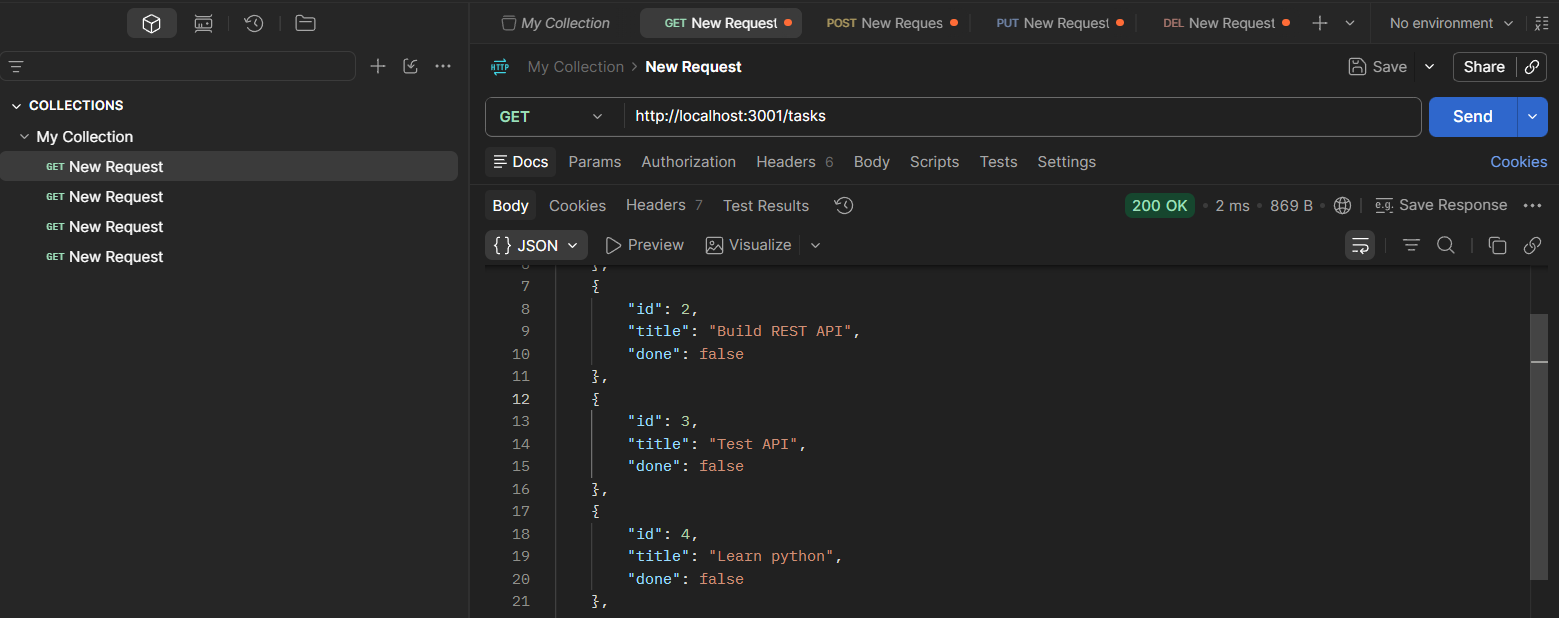
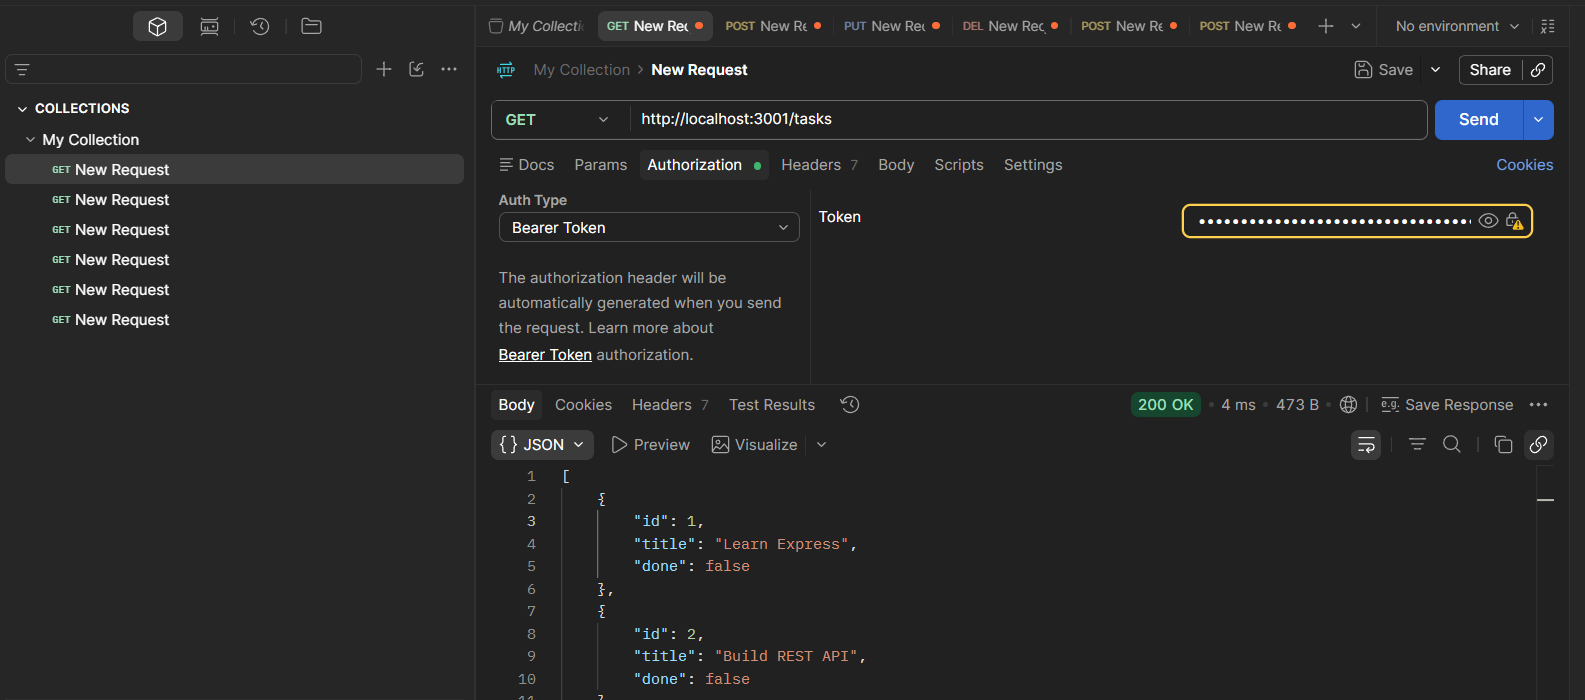
Authenticate JWT and more

diff --git a/README.md b/README.md
@@ -1,5 +1,7 @@
 # Task Manager REST API
 
+![alt text](image.png)
+
 A simple REST API built with **Node.js** and **Express.js** for managing tasks.
 
 This project demonstrates REST API development using CRUD operations, user authentication, password hashing, JWT-based authorization, and protected routes.
